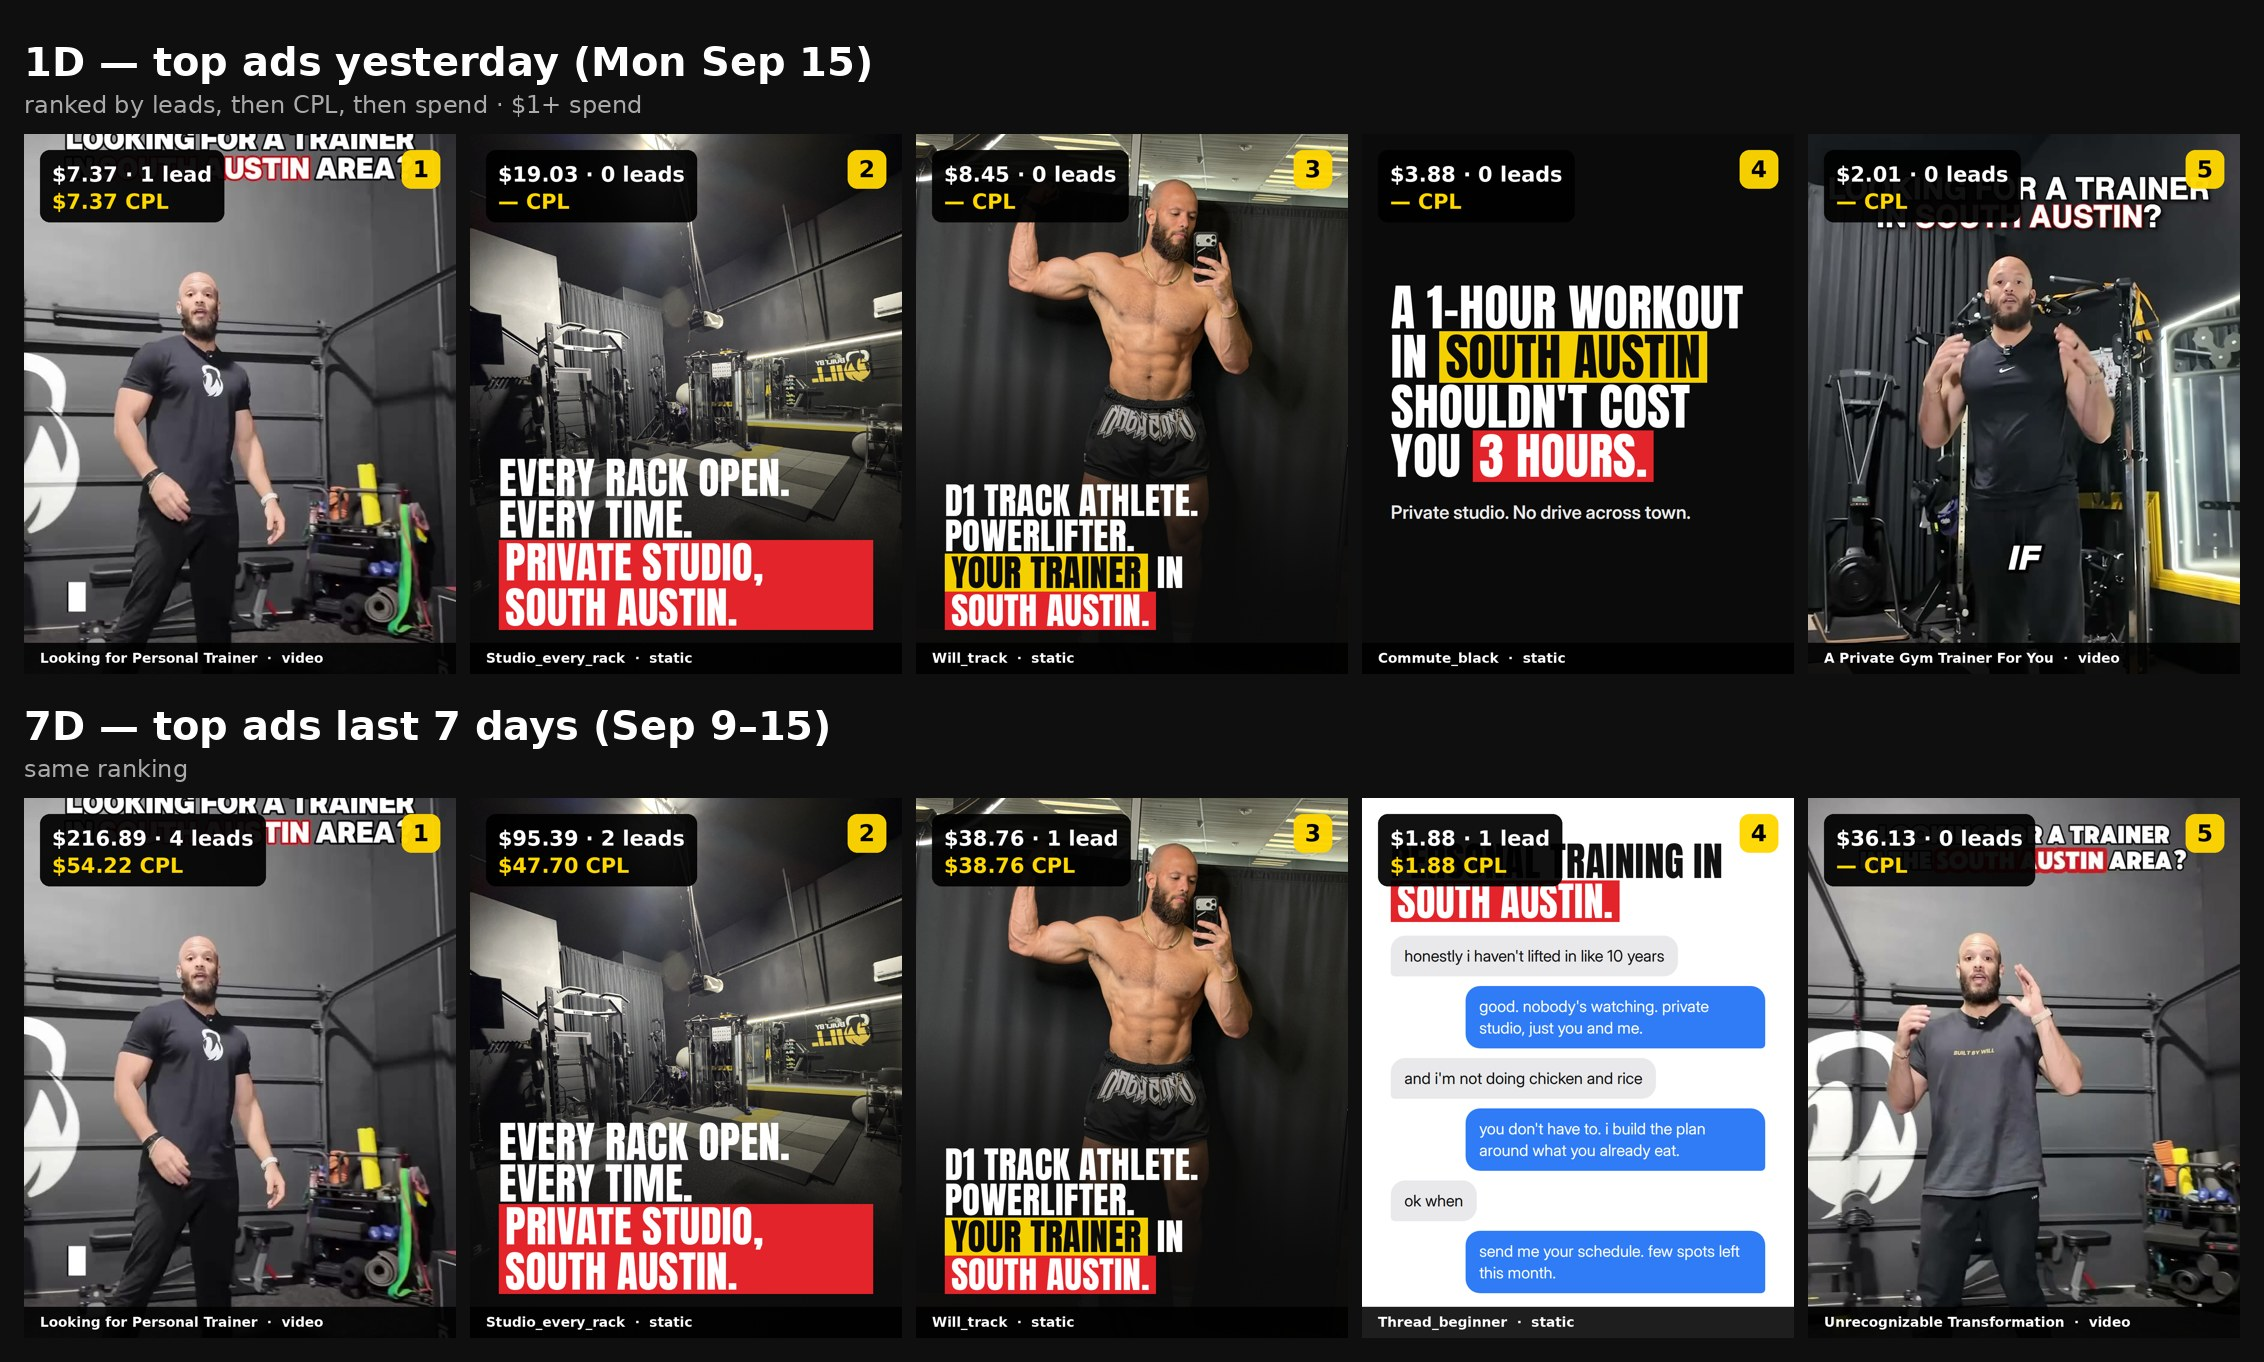
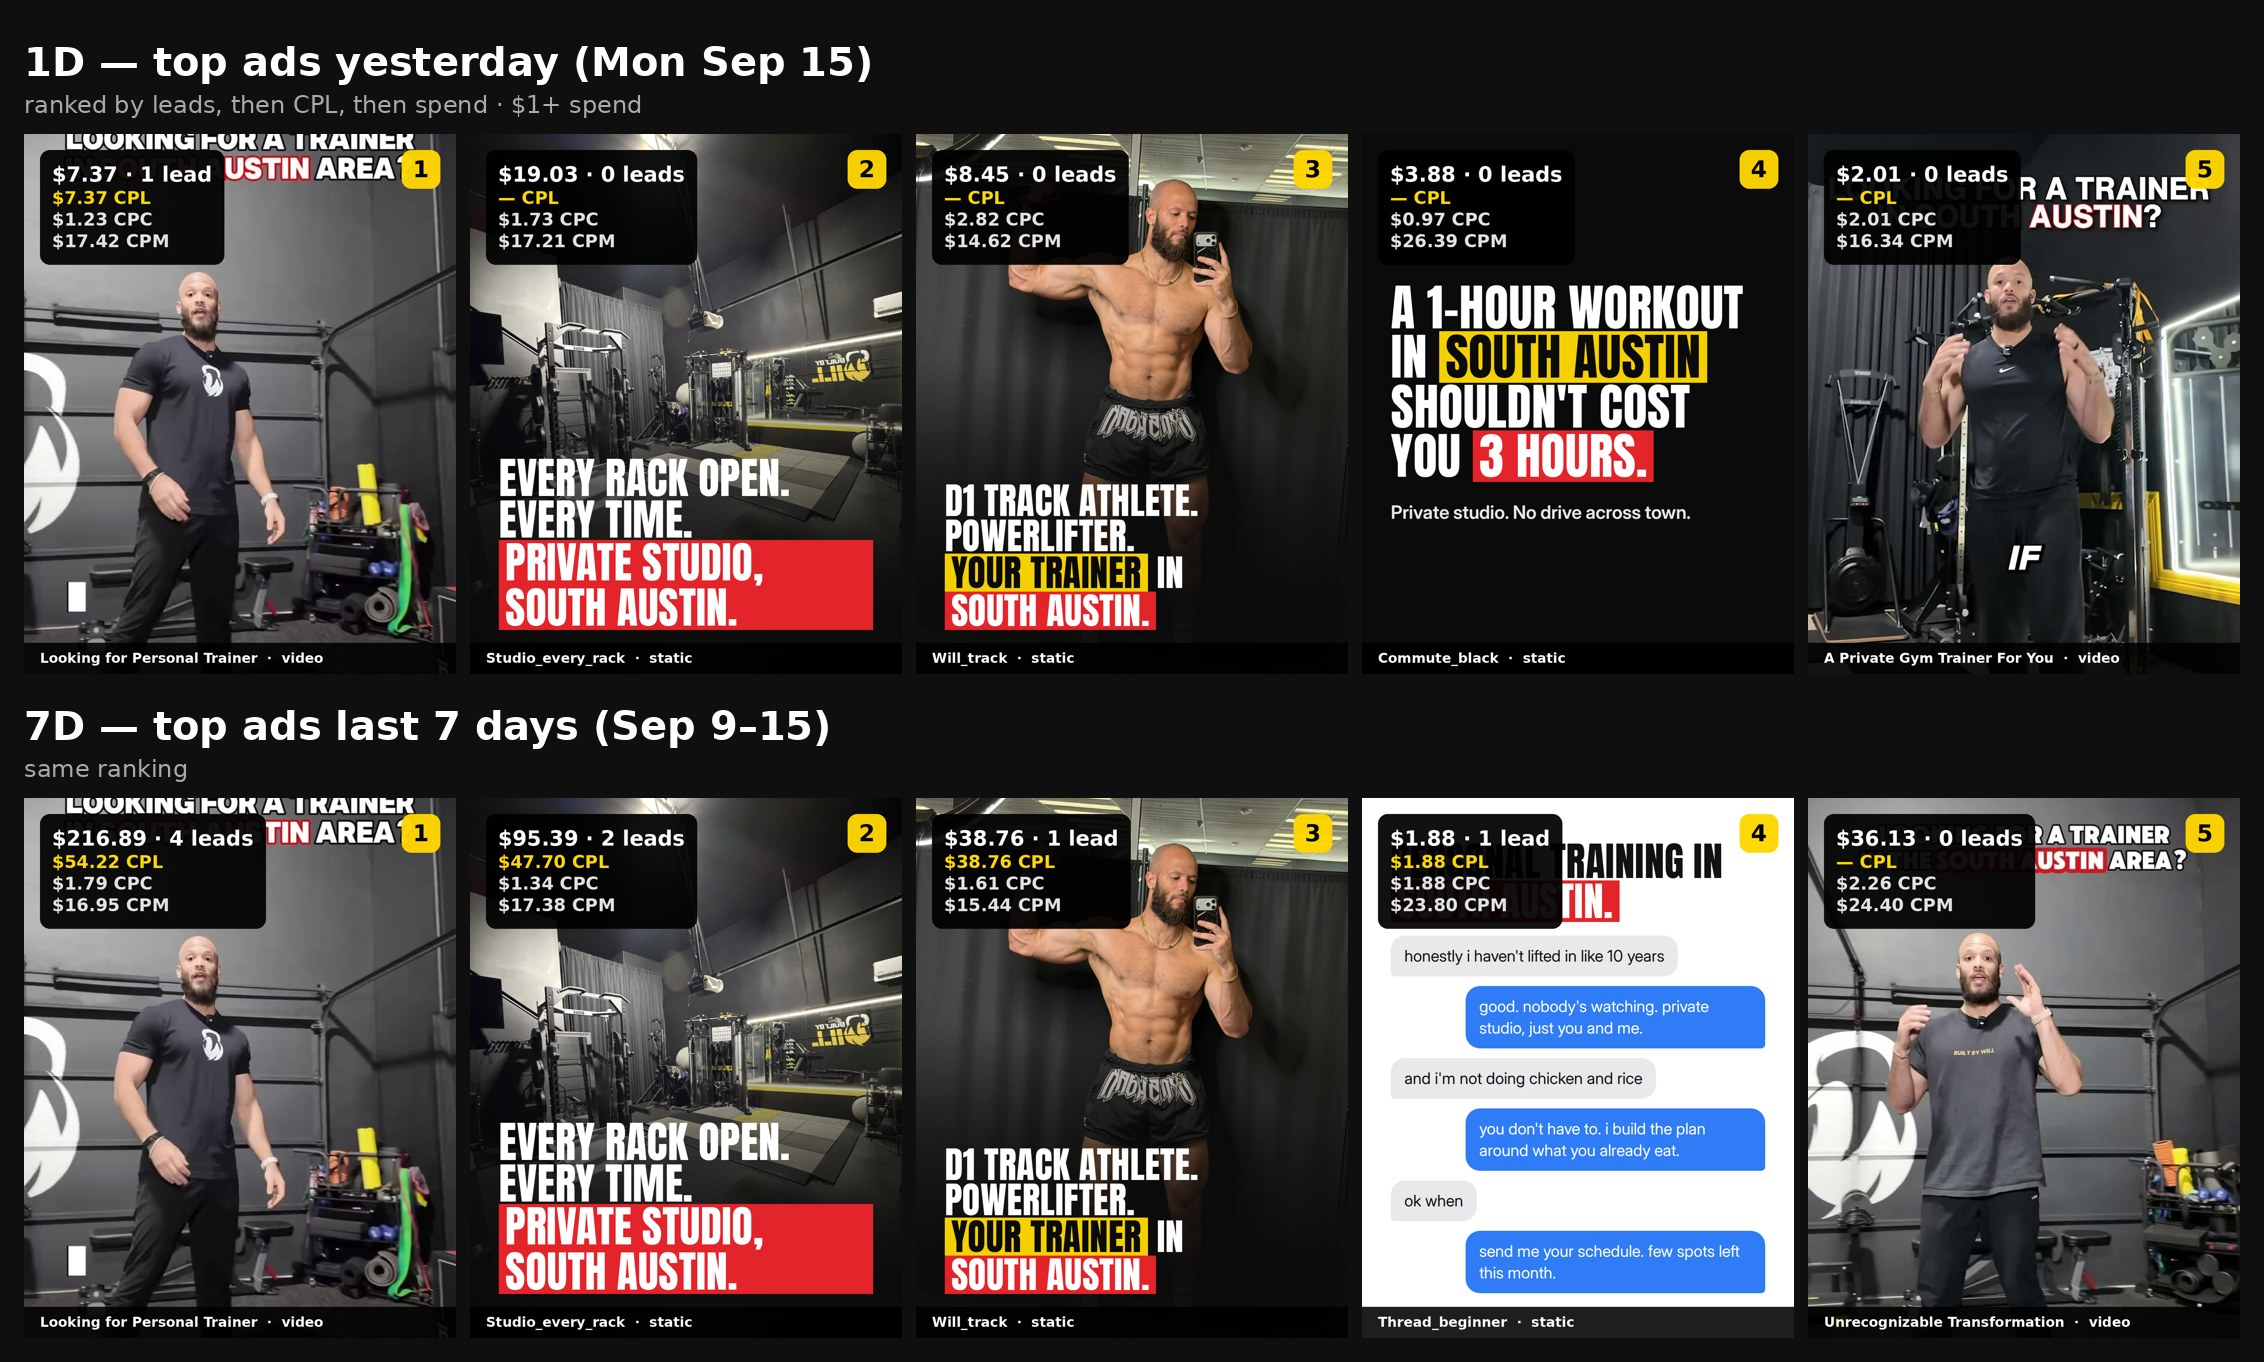
Board 2026-09-16: add CPC/CPM lines

diff --git a/scripts/build_board.py b/scripts/build_board.py
@@ -8,7 +8,7 @@ spec.json:
 {
   "row1_label": "1D — top ads yesterday (Tue Sep 16)",
   "row2_label": "7D — top ads last 7 days (Sep 10–16)",
-  "row1": [ {"name": "...", "kind": "static|video", "spend": 19.03, "leads": 0, "cpl": null, "image_url": "https://..."} , ... up to 5 ],
+  "row1": [ {"name": "...", "kind": "static|video", "spend": 19.03, "leads": 0, "cpl": null, "cpc": 1.73, "cpm": 17.21, "image_url": "https://..."} , ... up to 5 ],
   "row2": [ ... up to 5 ]
 }
 Cards are ranked left to right in the order given. Images are downloaded directly (no credentials needed for fbcdn URLs).
@@ -39,13 +39,20 @@ def card(a, rank):
     fs = ImageFont.truetype(B, 34)
     leads = int(a.get('leads') or 0)
     l1 = f"${a['spend']:,.2f} · {leads} lead{'s' if leads != 1 else ''}"
-    l2 = f"${a['cpl']:,.2f} CPL" if a.get('cpl') is not None else "— CPL"
+    fm = ImageFont.truetype(B, 44)
+    def money(k, lbl):
+        v = a.get(k)
+        return (f"${v:,.2f} {lbl}" if v is not None else f"— {lbl}")
+    lines = [(money('cpl', 'CPL'), (255, 214, 0, 255)), (money('cpc', 'CPC'), (225, 225, 225, 255)), (money('cpm', 'CPM'), (225, 225, 225, 255))]
     pad = 30
-    w = max(d.textlength(l1, font=fv), d.textlength(l2, font=fv)) + pad * 2
-    h = pad * 2 + 52 + 52 + 16
+    w = max([d.textlength(l1, font=fv)] + [d.textlength(t, font=fm) for t, _ in lines]) + pad * 2
+    h = pad * 2 + 52 + 12 + 3 * 54
     d.rounded_rectangle([40, 40, 40 + w, 40 + h], radius=24, fill=(0, 0, 0, 238))
     d.text((40 + pad, 40 + pad), l1, fill='white', font=fv)
-    d.text((40 + pad, 40 + pad + 68), l2, fill=(255, 214, 0, 255), font=fv)
+    yy = 40 + pad + 52 + 12
+    for t, col in lines:
+        d.text((40 + pad, yy), t, fill=col, font=fm)
+        yy += 54
     d.rounded_rectangle([1080 - 40 - 96, 40, 1080 - 40, 136], radius=24, fill=(255, 214, 0, 245))
     fr = ImageFont.truetype(B, 58)
     t = str(rank)
